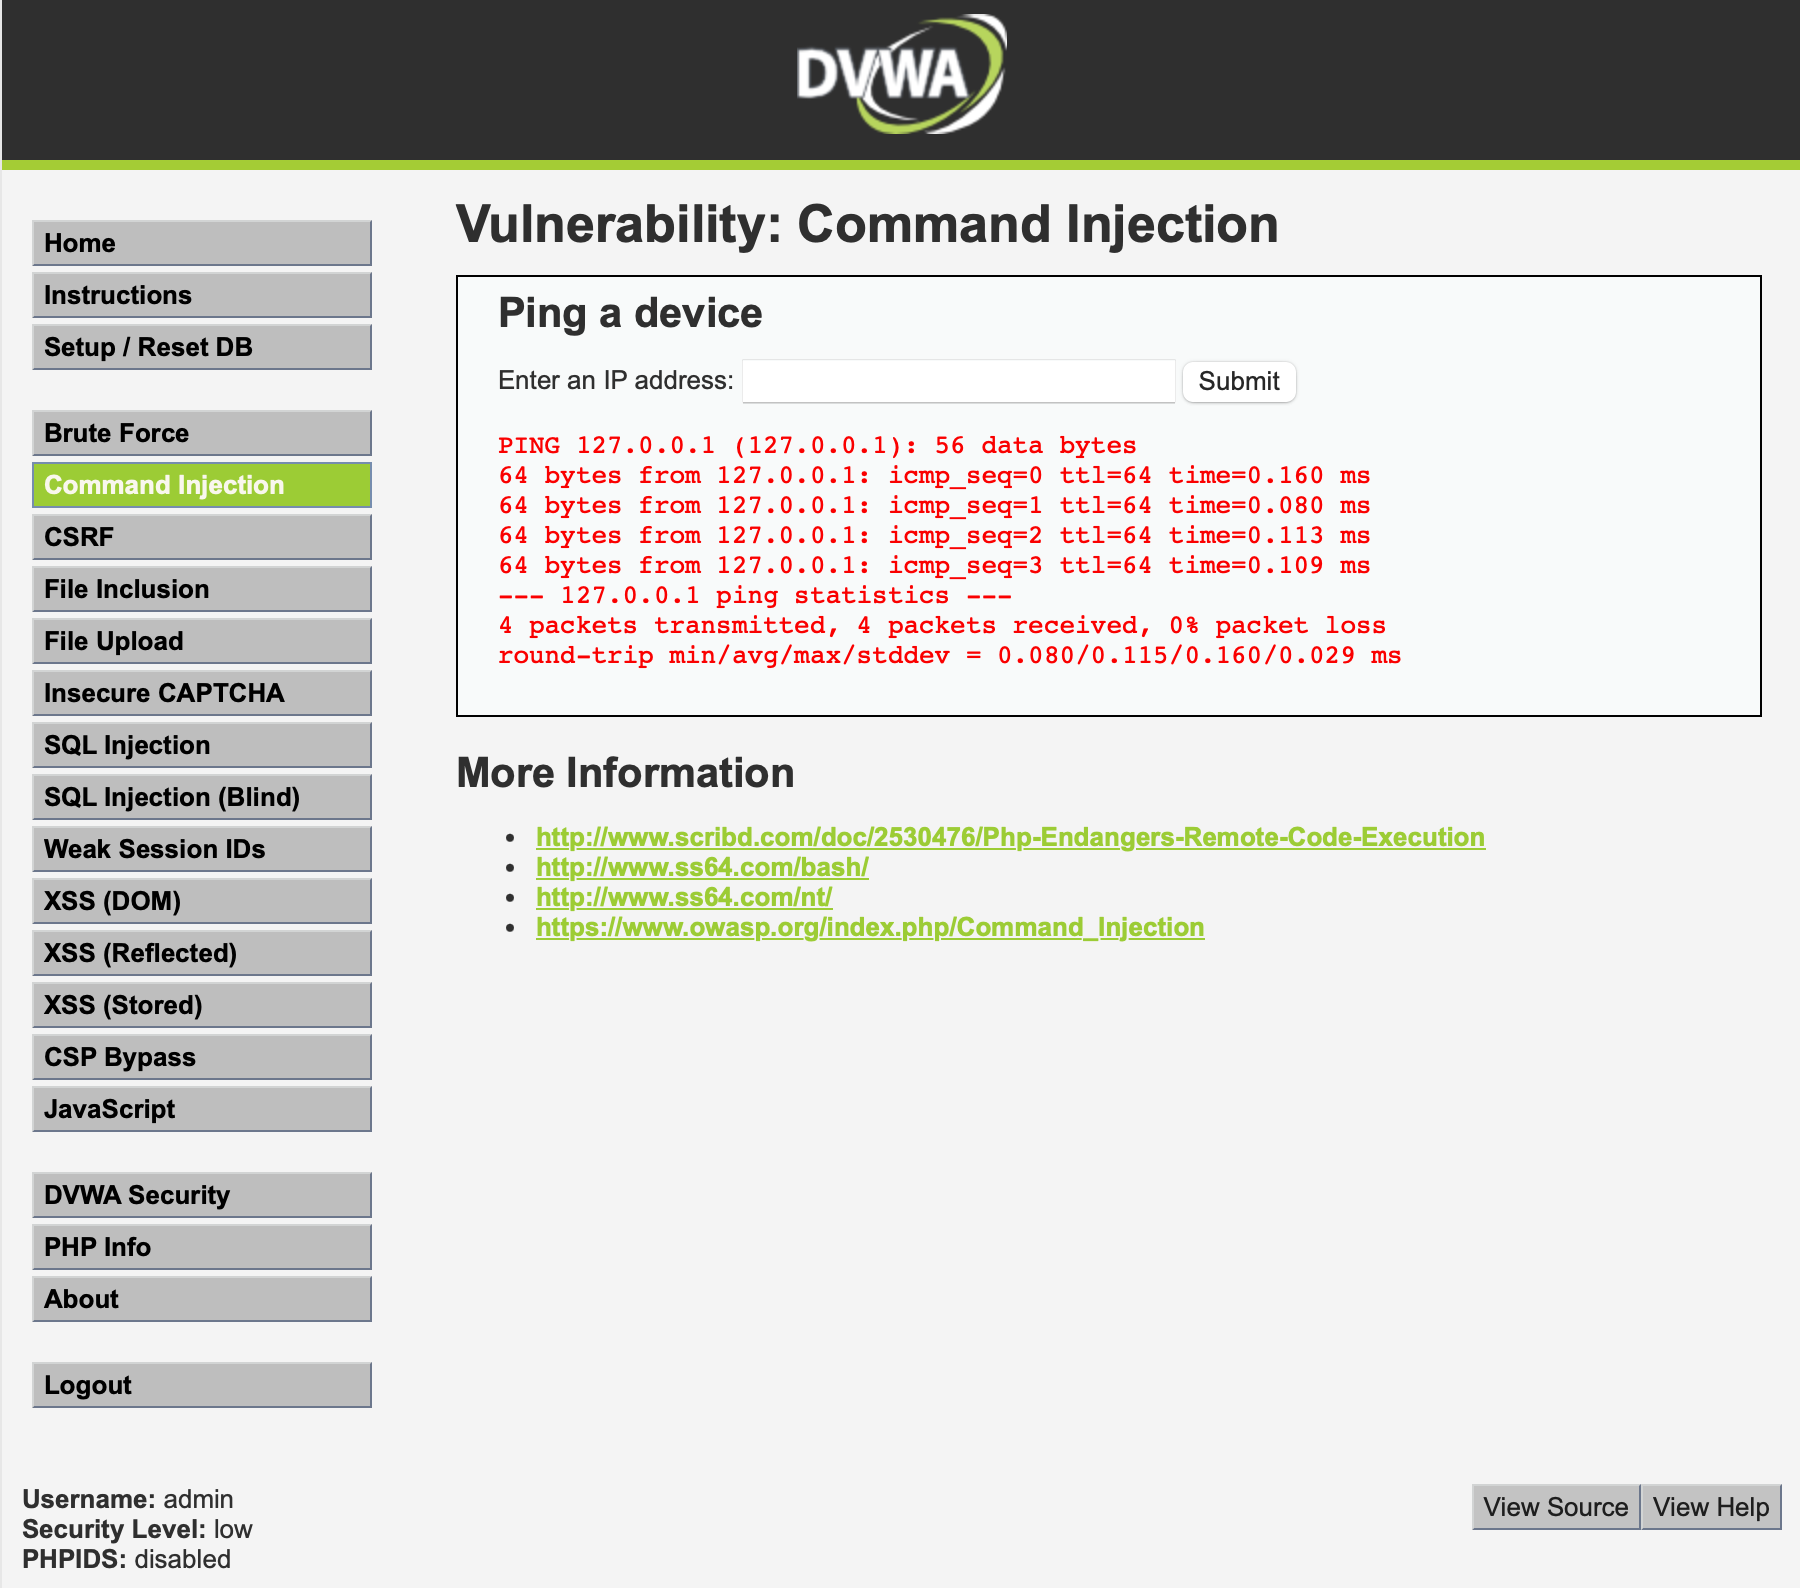
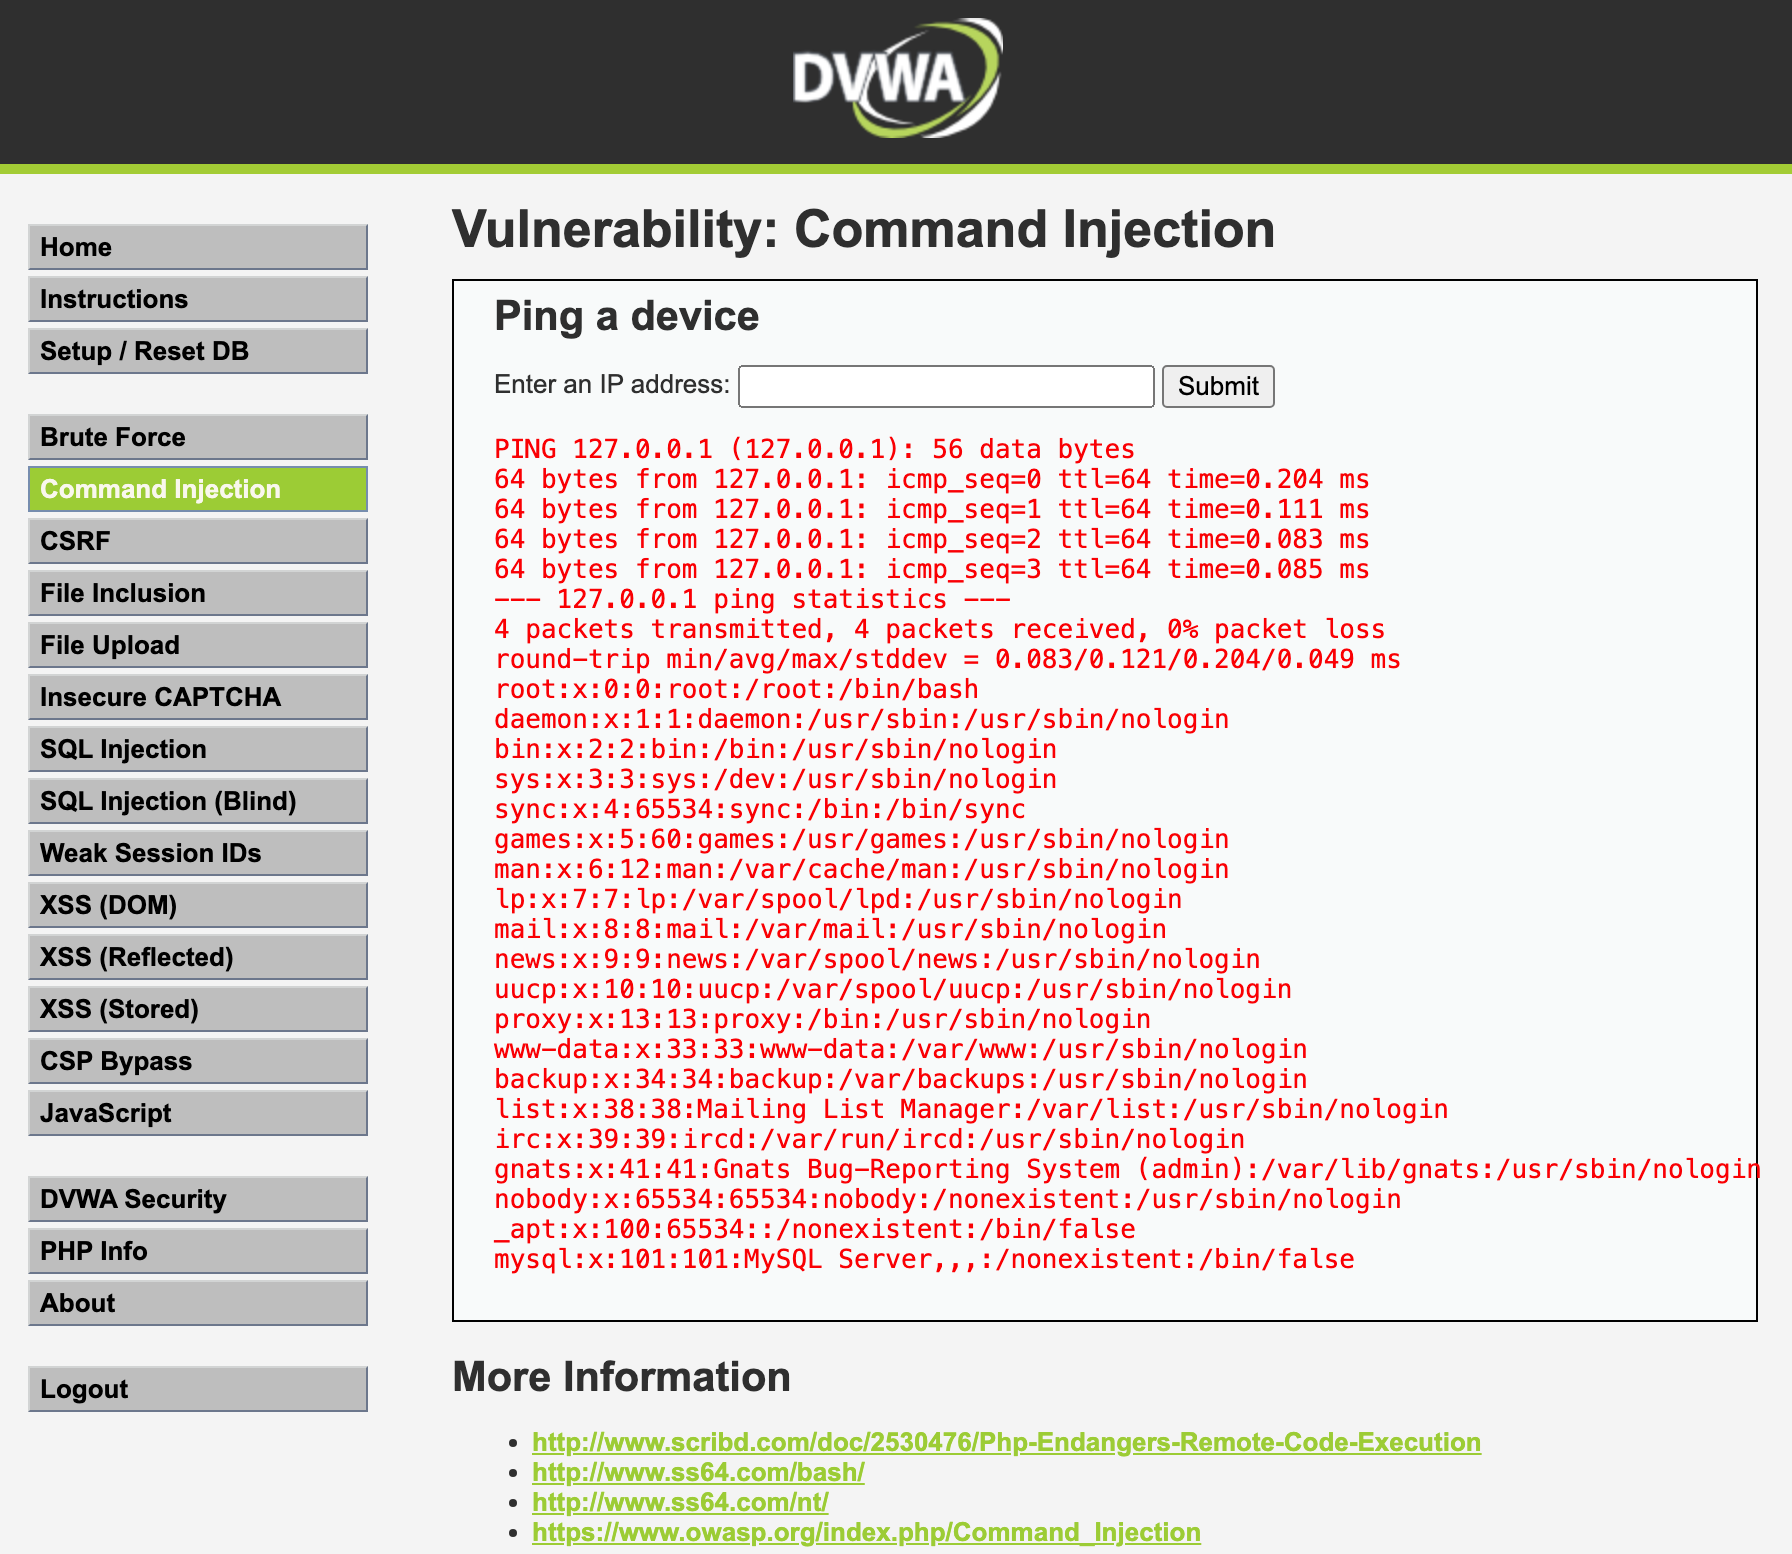
Updated command-injection

Changed region(s): [[0.0, 0.0, 1.0, 0.9884], [0.2812, 0.8958, 1.0, 1.0], [0.25, 0.8649, 0.4375, 0.8958]]

diff --git a/README.md b/README.md
@@ -32,7 +32,14 @@ Brute force attacks attempt to guess credentials by systematically trying many c
 
 ### Security Level: Low
 
-**Result:** Username and password `admin` and `password` found successfully.
+**Payload Used:**
+
+```bash
+username: admin
+password: password
+```
+
+**Result:** Username and password found successfully.
 
 > ![Screenshot: Brute Force – Low – successful credential discovery](screenshots/brute-force/brute-force-low.png)
 
@@ -43,6 +50,11 @@ No rate limiting, no account lockout, no CAPTCHA. Requests are processed as fast
 
 ### Security Level: Medium
 
+```bash
+username: admin
+password: password
+```
+
 **Result:** A `sleep(2)` delay is introduced per failed attempt, slowing brute force but not stopping it.
 
 > ![Screenshot: Brute Force – Medium – successful credential discovery](screenshots/brute-force/brute-force-medium.png)
@@ -50,6 +62,11 @@ No rate limiting, no account lockout, no CAPTCHA. Requests are processed as fast
 ---
 
 ### Security Level: High
+
+```bash
+username: admin
+password: password
+```
 
 **Result:** Anti-CSRF token required per request. Each request needs a valid, fresh token, making automated brute force extremely difficult without token-harvesting logic.
 
@@ -78,22 +95,12 @@ Command Injection allows an attacker to execute arbitrary OS commands by appendi
 
 **Steps:**
 
-1. Navigated to **Command Injection** module.
-2. Entered the payload in the IP address field.
-3. Clicked **Submit**.
+> ![Screenshot: Command Injection – Low](screenshots/command-injection/command-injection-low.png)
 
 **Result:** The `ping` command ran, then `cat /etc/passwd` executed and its output was displayed on the page.
 
-> 📸 **[Screenshot: Command Injection – Low – /etc/passwd contents displayed]**
-
 **Why it worked:**  
 DVWA passes input directly to `shell_exec()`:
-
-```php
-$cmd = shell_exec('ping -c 4 ' . $target);
-```
-
-The `;` separator causes the shell to execute the second command after the first.
 
 ---
 
@@ -105,9 +112,9 @@ The `;` separator causes the shell to execute the second command after the first
 127.0.0.1 && cat /etc/passwd
 ```
 
-**Result:** `;` and `&&` on their own are sometimes blocked, but `&&` succeeds at Medium.
+> ![Screenshot: Command Injection – Medium](screenshots/command-injection/command-injection-medium.png)
 
-> 📸 **[Screenshot: Command Injection – Medium – && payload success]**
+**Result:** `;` and `&&` on their own are sometimes blocked, but `&&` succeeds at Medium.
 
 **Why it worked:**  
 Medium only blacklists `&&` and `;` inconsistently — the filter is bypassable with `|` or `&&` depending on implementation. The blacklist does not cover all shell separators.
@@ -119,16 +126,14 @@ Medium only blacklists `&&` and `;` inconsistently — the filter is bypassable 
 **Payload Attempted:**
 
 ```bash
-127.0.0.1| cat /etc/passwd
+127.0.0.1|whoami
 ```
 
-**Result:** Failed.
+> ![Screenshot: Command Injection – High](screenshots/command-injection/command-injection-high.png)
 
-> 📸 **[Screenshot: Command Injection – High – blocked]**
+**Result:** The `|` without surrounding spaces works.
 
-**Why it failed:**  
-High level uses a comprehensive blacklist or a whitelist approach that only permits valid IP address characters (digits and `.`). Input not matching the pattern is rejected outright.
-
+**Why it worked:** The high-security source code blacklists specific characters but the `|` without surrounding spaces is often missed by the filter.
 ---
 
 ## 3. CSRF (Cross-Site Request Forgery)
